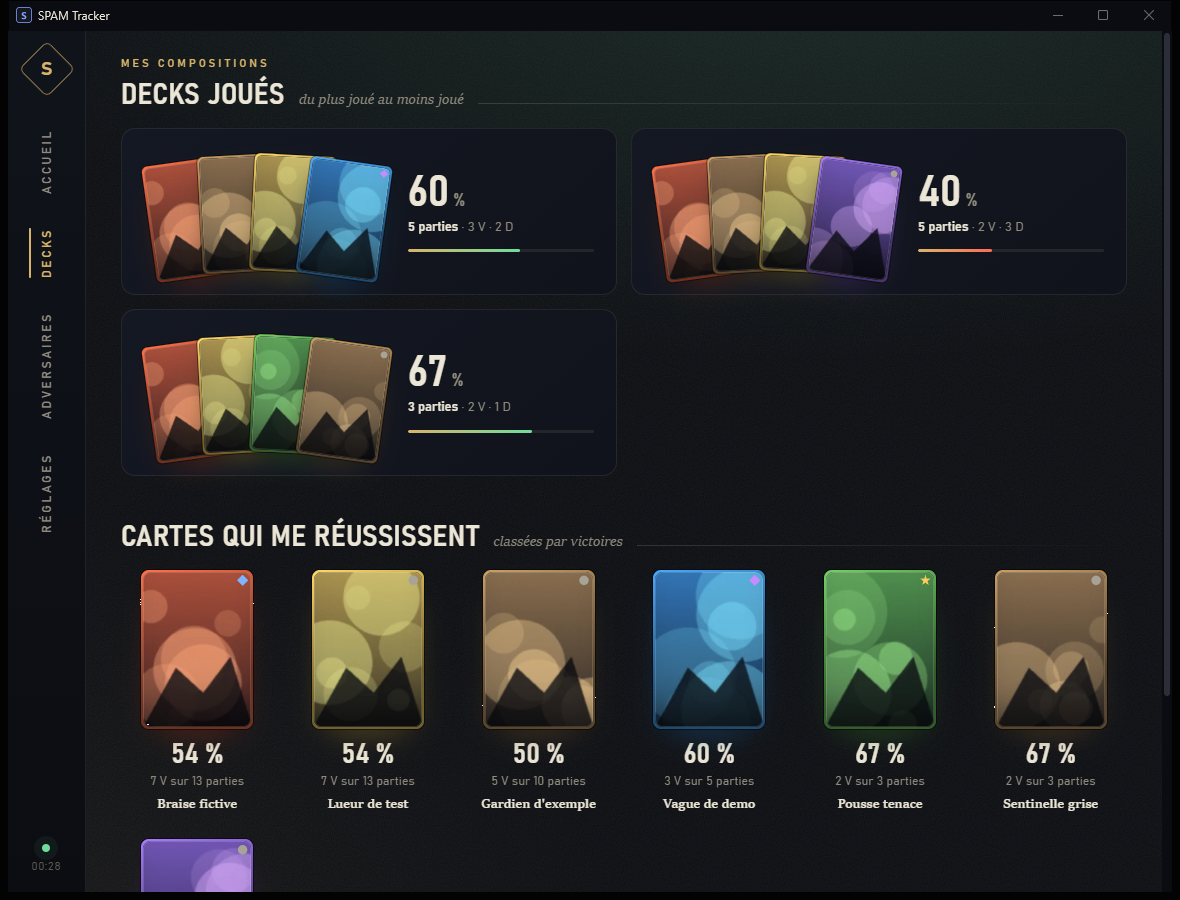
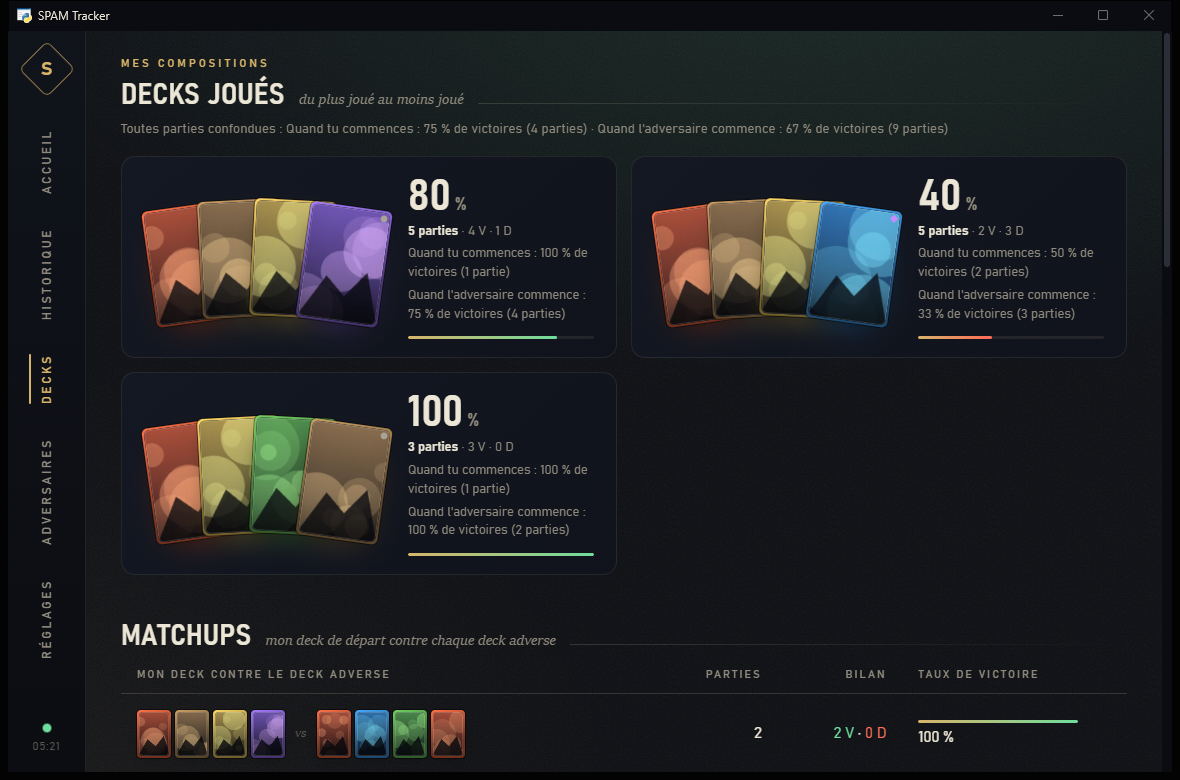
Nouvelles captures d'ecran et demo avec replays fictifs
- Captures refaites (Accueil, Historique avec le detail d'une partie, Decks,
  Adversaires, Reglages), toujours avec des donnees 100 % fictives
- make_demo.py ecrit aussi des replays .srpl fictifs (decks de depart et resume
  de fin de partie) et des talents inventes
- Lien direct #history/<match> pour ouvrir le detail d'une partie

diff --git a/ui.html b/ui.html
@@ -1215,6 +1215,12 @@ async function refresh() {
     CARDS.clear();
     renderBanners(d); renderHome(d, animate); renderProgress(d.progress || [], animate); renderHistory(d.recent);
     renderDecks(d); renderOpponents(d);
+    // lien #history/<match> : ouvre le detail de ce match des que l'historique est charge
+    if (pendingDetail && d.recent.some(m => m.uid === pendingDetail)) {
+      const uid = pendingDetail;
+      pendingDetail = null;
+      if (histOpen !== uid) toggleDetail(uid);
+    }
     if (!document.getElementById("tab-settings").contains(document.activeElement)) renderSettings(d);
   } catch (e) {
     live.classList.add("off");
@@ -1222,10 +1228,13 @@ async function refresh() {
   }
 }
 
-// onglets : bouton du rail ou lien #decks, #opponents, #settings
+// onglets : bouton du rail ou lien #decks, #opponents, #settings, #history/<match>
 const TABS = ["home", "history", "decks", "opponents", "settings"];
-function showTab(tab) {
+let pendingDetail = null;
+function showTab(target) {
+  let [tab, arg] = String(target || "").split("/");
   if (!TABS.includes(tab)) tab = "home";
+  if (tab === "history" && arg) pendingDetail = decodeURIComponent(arg);
   document.querySelectorAll(".rail nav button").forEach(x => x.setAttribute("aria-selected", x.dataset.tab === tab));
   document.querySelectorAll("main section").forEach(s => {
     const on = s.id === "tab-" + tab;

diff --git a/tools/make_demo.py b/tools/make_demo.py
@@ -39,6 +39,72 @@ def card_uuid(i):
     return str(uuid.UUID(int=0xC0DE0000_0000_4000_8000_000000000000 + i))
 
 
+# Talents inventes (uuid -> nom), cites dans les replays fictifs
+TALENTS = {str(uuid.UUID(int=0x7A1E0000_0000_4000_8000_000000000000 + i)): name for i, name in enumerate(
+    ["Vigueur d'exemple", "Écho fictif", "Garde de test", "Élan imaginaire", "Focus de démo", "Riposte factice"])}
+
+
+def dotnet_string(text):
+    """Chaine au format BinaryWriter .NET : longueur (entier 7 bits) puis UTF-8."""
+    raw, n, prefix = text.encode("utf-8"), len(text.encode("utf-8")), bytearray()
+    while True:
+        b, n = n & 0x7F, n >> 7
+        prefix.append(b | (0x80 if n else 0))
+        if not n:
+            return bytes(prefix) + raw
+
+
+def write_srpl(path, header, blocks, summary):
+    """Replay fictif au format du jeu (MatchReplay v2) : decks de depart puis resume de fin (GameEnd)."""
+    import gzip
+    import struct
+    start = b"\x9f\x08"                                  # message d'etat : bloc de chaque joueur
+    for pid, deck in blocks:
+        start += b"\x01" + pid.encode()
+        for i, card in enumerate(deck):
+            start += b"\x00\x18" + f"DemoCarte{i:02d}X".encode() + b"\x02J" + card.encode()
+    end = b"\xd1\x07\x00\x00" + json.dumps(summary, ensure_ascii=False).encode("utf-16-le")   # 2001 = GameEnd
+    msgs = [(0, start), (summary["turnCount"] * 30000, end)]
+    body = b"SRPL" + struct.pack("<i", 2) + dotnet_string(json.dumps(header)) + struct.pack("<i", len(msgs))
+    for t, data in msgs:
+        body += struct.pack("<ii", t, len(data)) + data
+    with gzip.open(path, "wb") as f:
+        f.write(body)
+
+
+def fake_summary(rnd, uid, me, opp, my_deck, opp_deck, win, turns):
+    """Resume de fin de partie fictif (meme structure que celui ecrit par le jeu)."""
+    tal = list(TALENTS.items())
+
+    def side(deck, winner):
+        cards = []
+        for c in deck:
+            tid, tname = rnd.choice(tal)
+            cards.append({"id": c, "isAlive": winner or rnd.random() < 0.3, "talent": 1, "talentId": tid,
+                          "talentName": tname, "damage": rnd.randint(150, 1800) + (300 if winner else 0),
+                          "heal": rnd.choice([0, 0, rnd.randint(100, 1500)]), "kills": rnd.randint(0, 2)})
+        hp, value = [], 2850
+        for _ in range(turns + 1):
+            hp.append(max(0, value))
+            value += rnd.randint(-450, 350) + (120 if winner else -60)
+        stats = {"v": 1, "shops": turns, "rerolls": rnd.randint(0, 4), "freeRerolls": 0, "skips": rnd.randint(0, 2),
+                 "skipGold": 0, "bans": [], "turns": turns, "turnTimeMs": rnd.randint(60, 240) * 1000,
+                 "timeouts": 0, "disconnects": 0, "emotes": rnd.randint(0, 2), "hp": hp, "shop": []}
+        return cards, stats
+
+    w_deck, l_deck = (my_deck, opp_deck) if win else (opp_deck, my_deck)
+    (w_cards, w_stats), (l_cards, l_stats) = side(w_deck, True), side(l_deck, False)
+    buys = [{"userId": rnd.choice([me, opp]), "card": rnd.choice(my_deck + opp_deck), "tox": "demo",
+             "bought": "demo", "cost": rnd.choice([10, 20, 40, 70]), "turn": rnd.randint(2, turns)} for _ in range(rnd.randint(1, 4))]
+    return {"tid": uid, "isDraw": False, "winner": me if win else opp, "loser": opp if win else me,
+            "starter": rnd.choice([me, opp]), "turnCount": turns, "jsonOfMatch": "",
+            "totalDamageWinner": sum(c["damage"] for c in w_cards), "totalDamageLoser": sum(c["damage"] for c in l_cards),
+            "totalHealWinner": sum(c["heal"] for c in w_cards), "totalHealLoser": sum(c["heal"] for c in l_cards),
+            "cardsWinner": w_cards, "cardsLoser": l_cards, "toxPurchases": buys,
+            "endCause": rnd.choice(["surrender", "surrender", "normal"]),
+            "matchStatsWinner": w_stats, "matchStatsLoser": l_stats}
+
+
 ELEMENT_RGB = {"fire": (255, 106, 61), "water": (62, 166, 255), "earth": (201, 154, 91),
                "nature": (108, 207, 90), "light": (255, 215, 94), "shadow": (162, 116, 255)}
 
@@ -89,10 +155,17 @@ def main(target):
         c["image"] = True
     (data / "catalog.json").write_text(json.dumps({
         "generated_utc": "2026-01-01T12:00:00+00:00", "source": "demo", "game_version": "1.26",
-        "tested_with": "1.26", "count": len(cards), "cards": cards}, ensure_ascii=False, indent=1), encoding="utf-8")
+        "tested_with": "1.26", "count": len(cards), "cards": cards, "talents": TALENTS},
+        ensure_ascii=False, indent=1), encoding="utf-8")
 
     ids = list(cards)
     decks = [ids[0:4], ids[0:3] + [ids[5]], [ids[1], ids[2], ids[6], ids[9]]]
+    # chaque adversaire fictif joue toujours le meme deck (pour que les matchups se regroupent)
+    opp_decks = [[ids[10], ids[11], ids[12], ids[13]], [ids[4], ids[7], ids[8], ids[14]],
+                 [ids[3], ids[5], ids[9], ids[15]], [ids[6], ids[10], ids[13], ids[15]]]
+    folder = target / "replays" / "demo.server" / ME
+    folder.mkdir(parents=True, exist_ok=True)
+    rnd = random.Random(7)
     start = datetime(2026, 1, 10, 18, 0, tzinfo=timezone.utc)
     my_stars, my_rank, matches = 64, 1480, []
     for n in range(14):
@@ -106,22 +179,24 @@ def main(target):
         t0 = start + timedelta(minutes=17 * n)
         dur = random.randint(90, 600)
         opp_id = str(uuid.UUID(int=0x0BB00000_0000_4000_8000_000000000000 + n % 8))
+        uid, turns = f"match-{9000000 + n}", random.randint(3, 14)
+        my_deck, opp_deck = decks[n % 3], opp_decks[n % 4]
+        write_srpl(folder / f"{uid}.srpl", {"GameUid": uid, "AccountId": ME, "OpponentId": opp_id},
+                   [(ME, my_deck), (opp_id, opp_deck)], fake_summary(rnd, uid, ME, opp_id, my_deck, opp_deck, win, turns))
         matches.append({
-            "FormatVersion": 2, "AppVersion": "1.26", "GameUid": f"match-{9000000 + n}",
+            "FormatVersion": 2, "AppVersion": "1.26", "GameUid": uid,
             "AccountId": ME, "Seat": 0, "GameMode": 10 if ranked else 0, "Level": "",
             "OpponentId": opp_id, "OpponentName": "IA d'entraînement" if ai else OPPONENTS[n % 8],
             "OpponentIsAi": ai, "WinnerId": ME if win else opp_id, "IsDraw": False,
-            "MyCards": decks[n % 3], "OpponentCards": random.sample(ids, 4),
+            "MyCards": my_deck, "OpponentCards": opp_deck,
             "StartUtc": t0.isoformat().replace("+00:00", "Z"),
             "EndUtc": (t0 + timedelta(seconds=dur)).isoformat().replace("+00:00", "Z"),
-            "DurationMs": dur * 1000, "MessageCount": 400, "TurnCount": random.randint(3, 14),
+            "DurationMs": dur * 1000, "MessageCount": 400, "TurnCount": turns,
             "Loading": {"matchId": f"match-{9000000 + n}",
                         "opponent": {"username": OPPONENTS[n % 8], "stars": 0 if ai else opp_stars,
                                      "rank": 0 if ai else my_rank + random.randint(-200, 200)},
                         "me": {"username": "Joueur", "stars": my_stars, "rank": my_rank}},
         })
-    folder = target / "replays" / "demo.server" / ME
-    folder.mkdir(parents=True, exist_ok=True)
     (folder / "index.json").write_text(json.dumps(matches[::-1], ensure_ascii=False), encoding="utf-8")
     print(f"Demo creee dans {target} : {len(matches)} matchs, {len(cards)} cartes fictives.")
 

diff --git a/README.md b/README.md
@@ -35,6 +35,8 @@ illustrations inventés).*
 - Se range dans la **zone de notification** quand on ferme la fenêtre, et peut se lancer au démarrage
   de Windows.
 
+![Historique : détail d'une partie (stats par carte, talents, achats, courbe des PV)](docs/screenshots/history.png)
+
 | Decks | Adversaires | Réglages |
 |---|---|---|
 | ![Decks](docs/screenshots/decks.png) | ![Adversaires](docs/screenshots/opponents.png) | ![Réglages](docs/screenshots/settings.png) |

diff --git a/README.en.md b/README.en.md
@@ -32,6 +32,8 @@ interface is in French.*
   illustration.
 - Closing the window keeps it running in the **notification area**. It can also start with Windows.
 
+![History: game details (per-card stats, talents, purchases, HP chart)](docs/screenshots/history.png)
+
 | Decks | Opponents | Settings |
 |---|---|---|
 | ![Decks](docs/screenshots/decks.png) | ![Opponents](docs/screenshots/opponents.png) | ![Settings](docs/screenshots/settings.png) |
